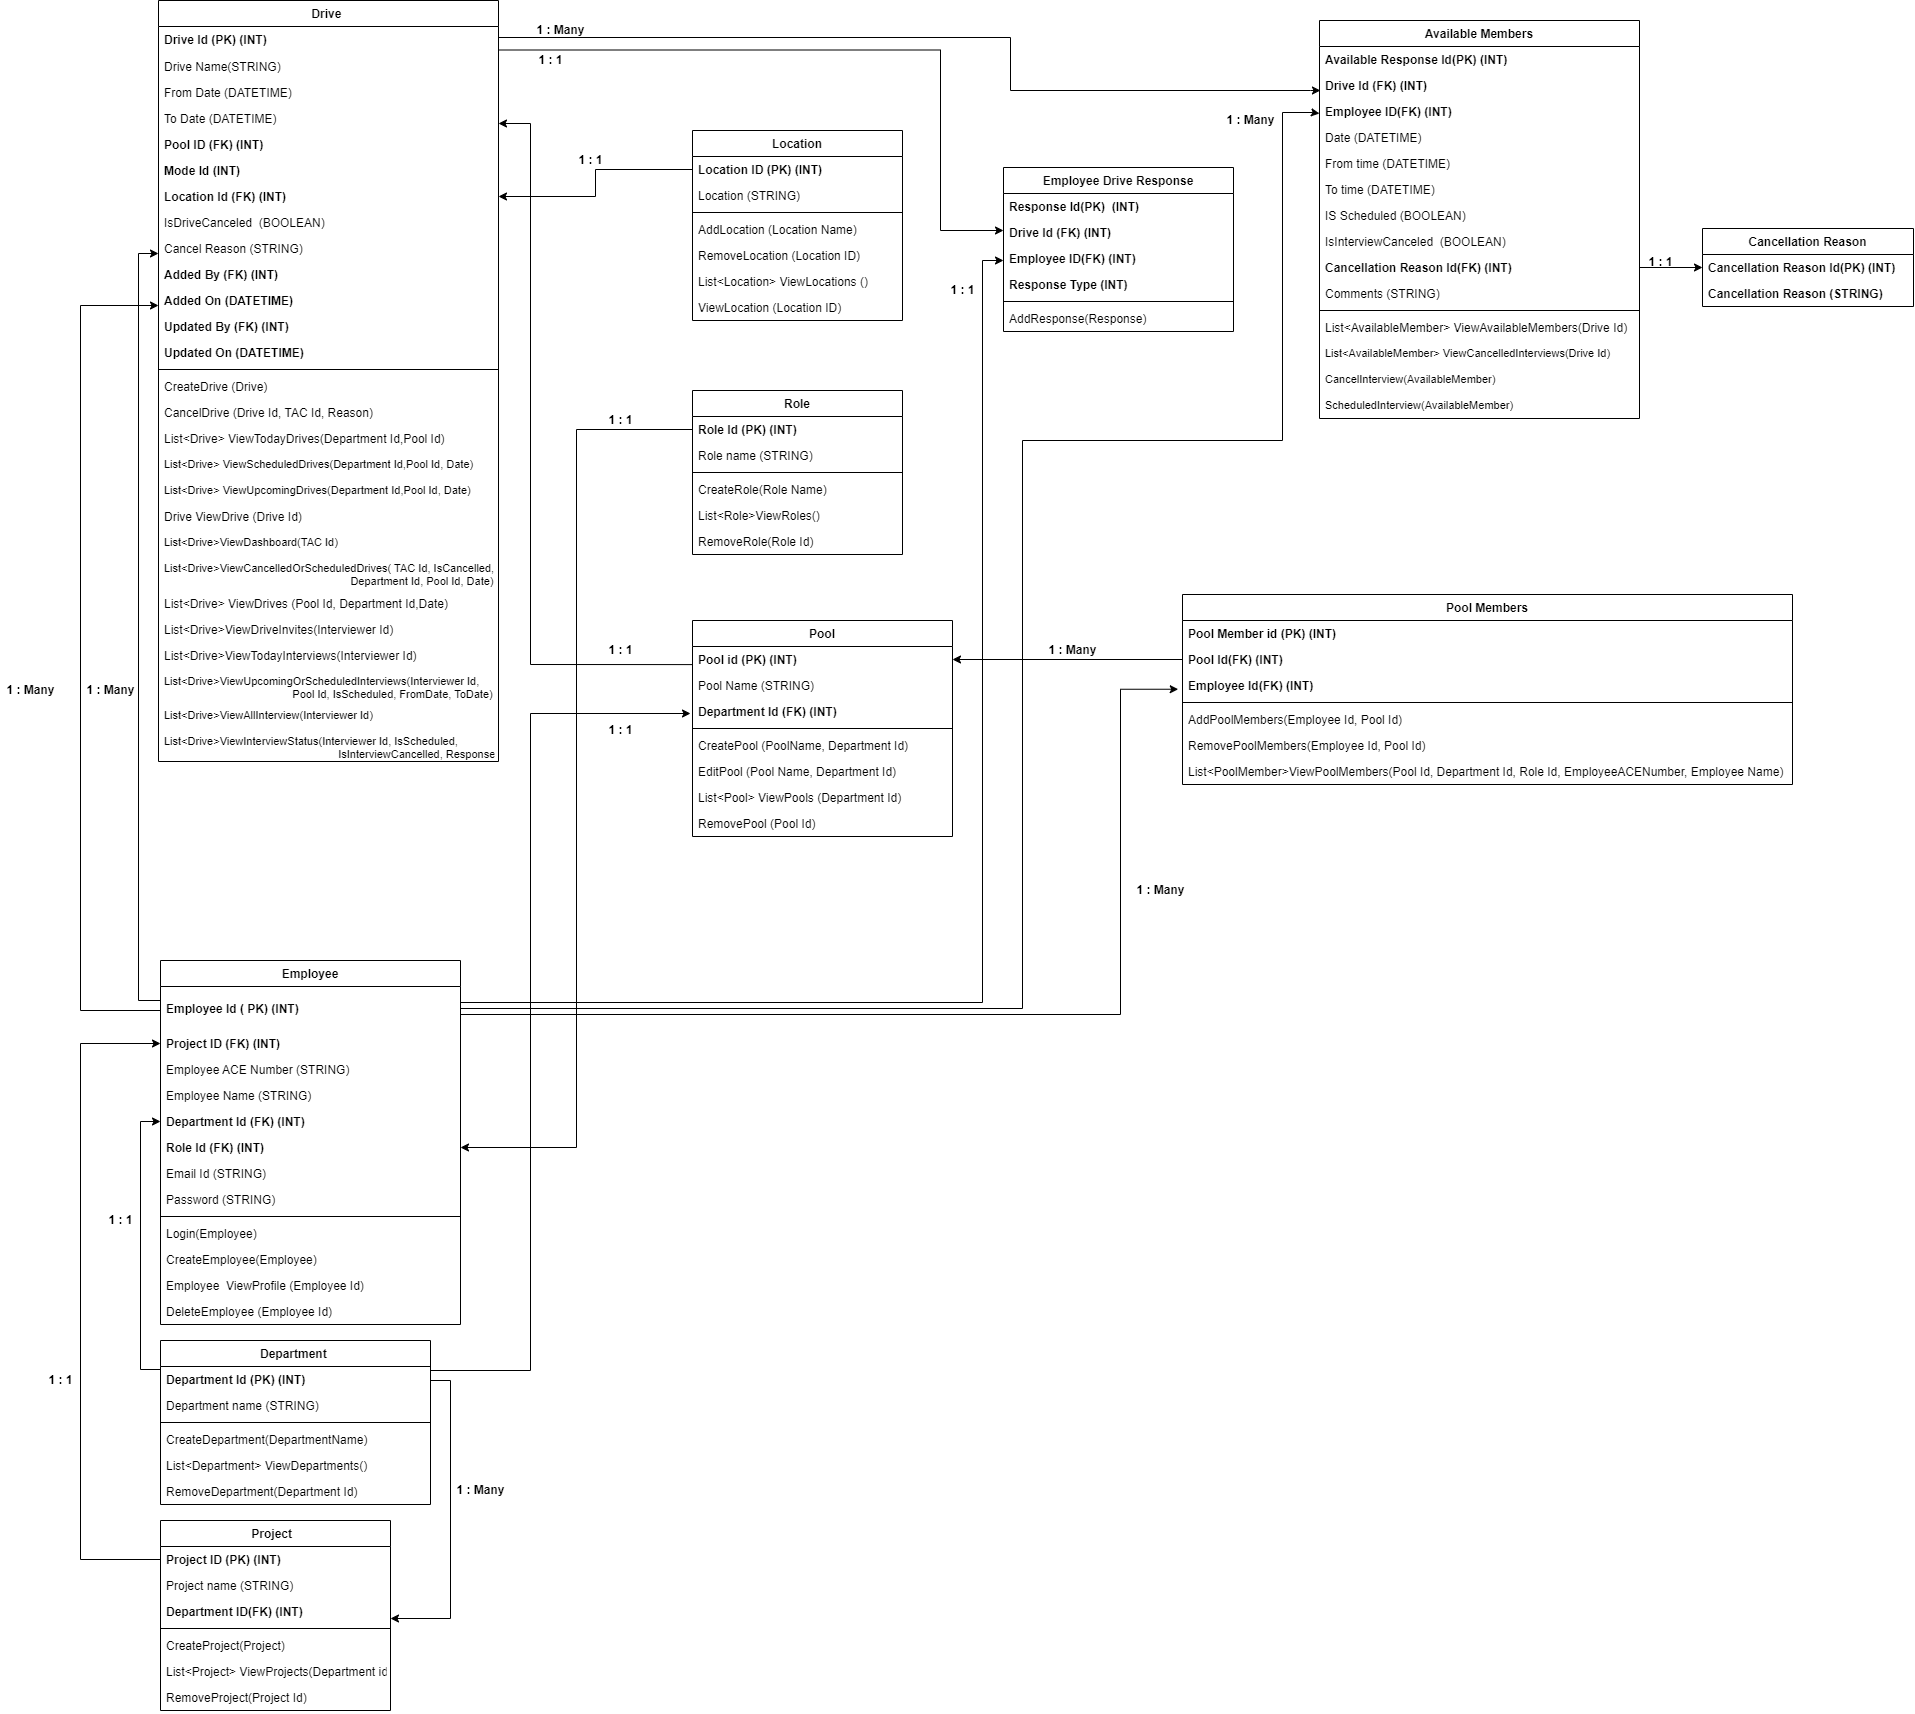
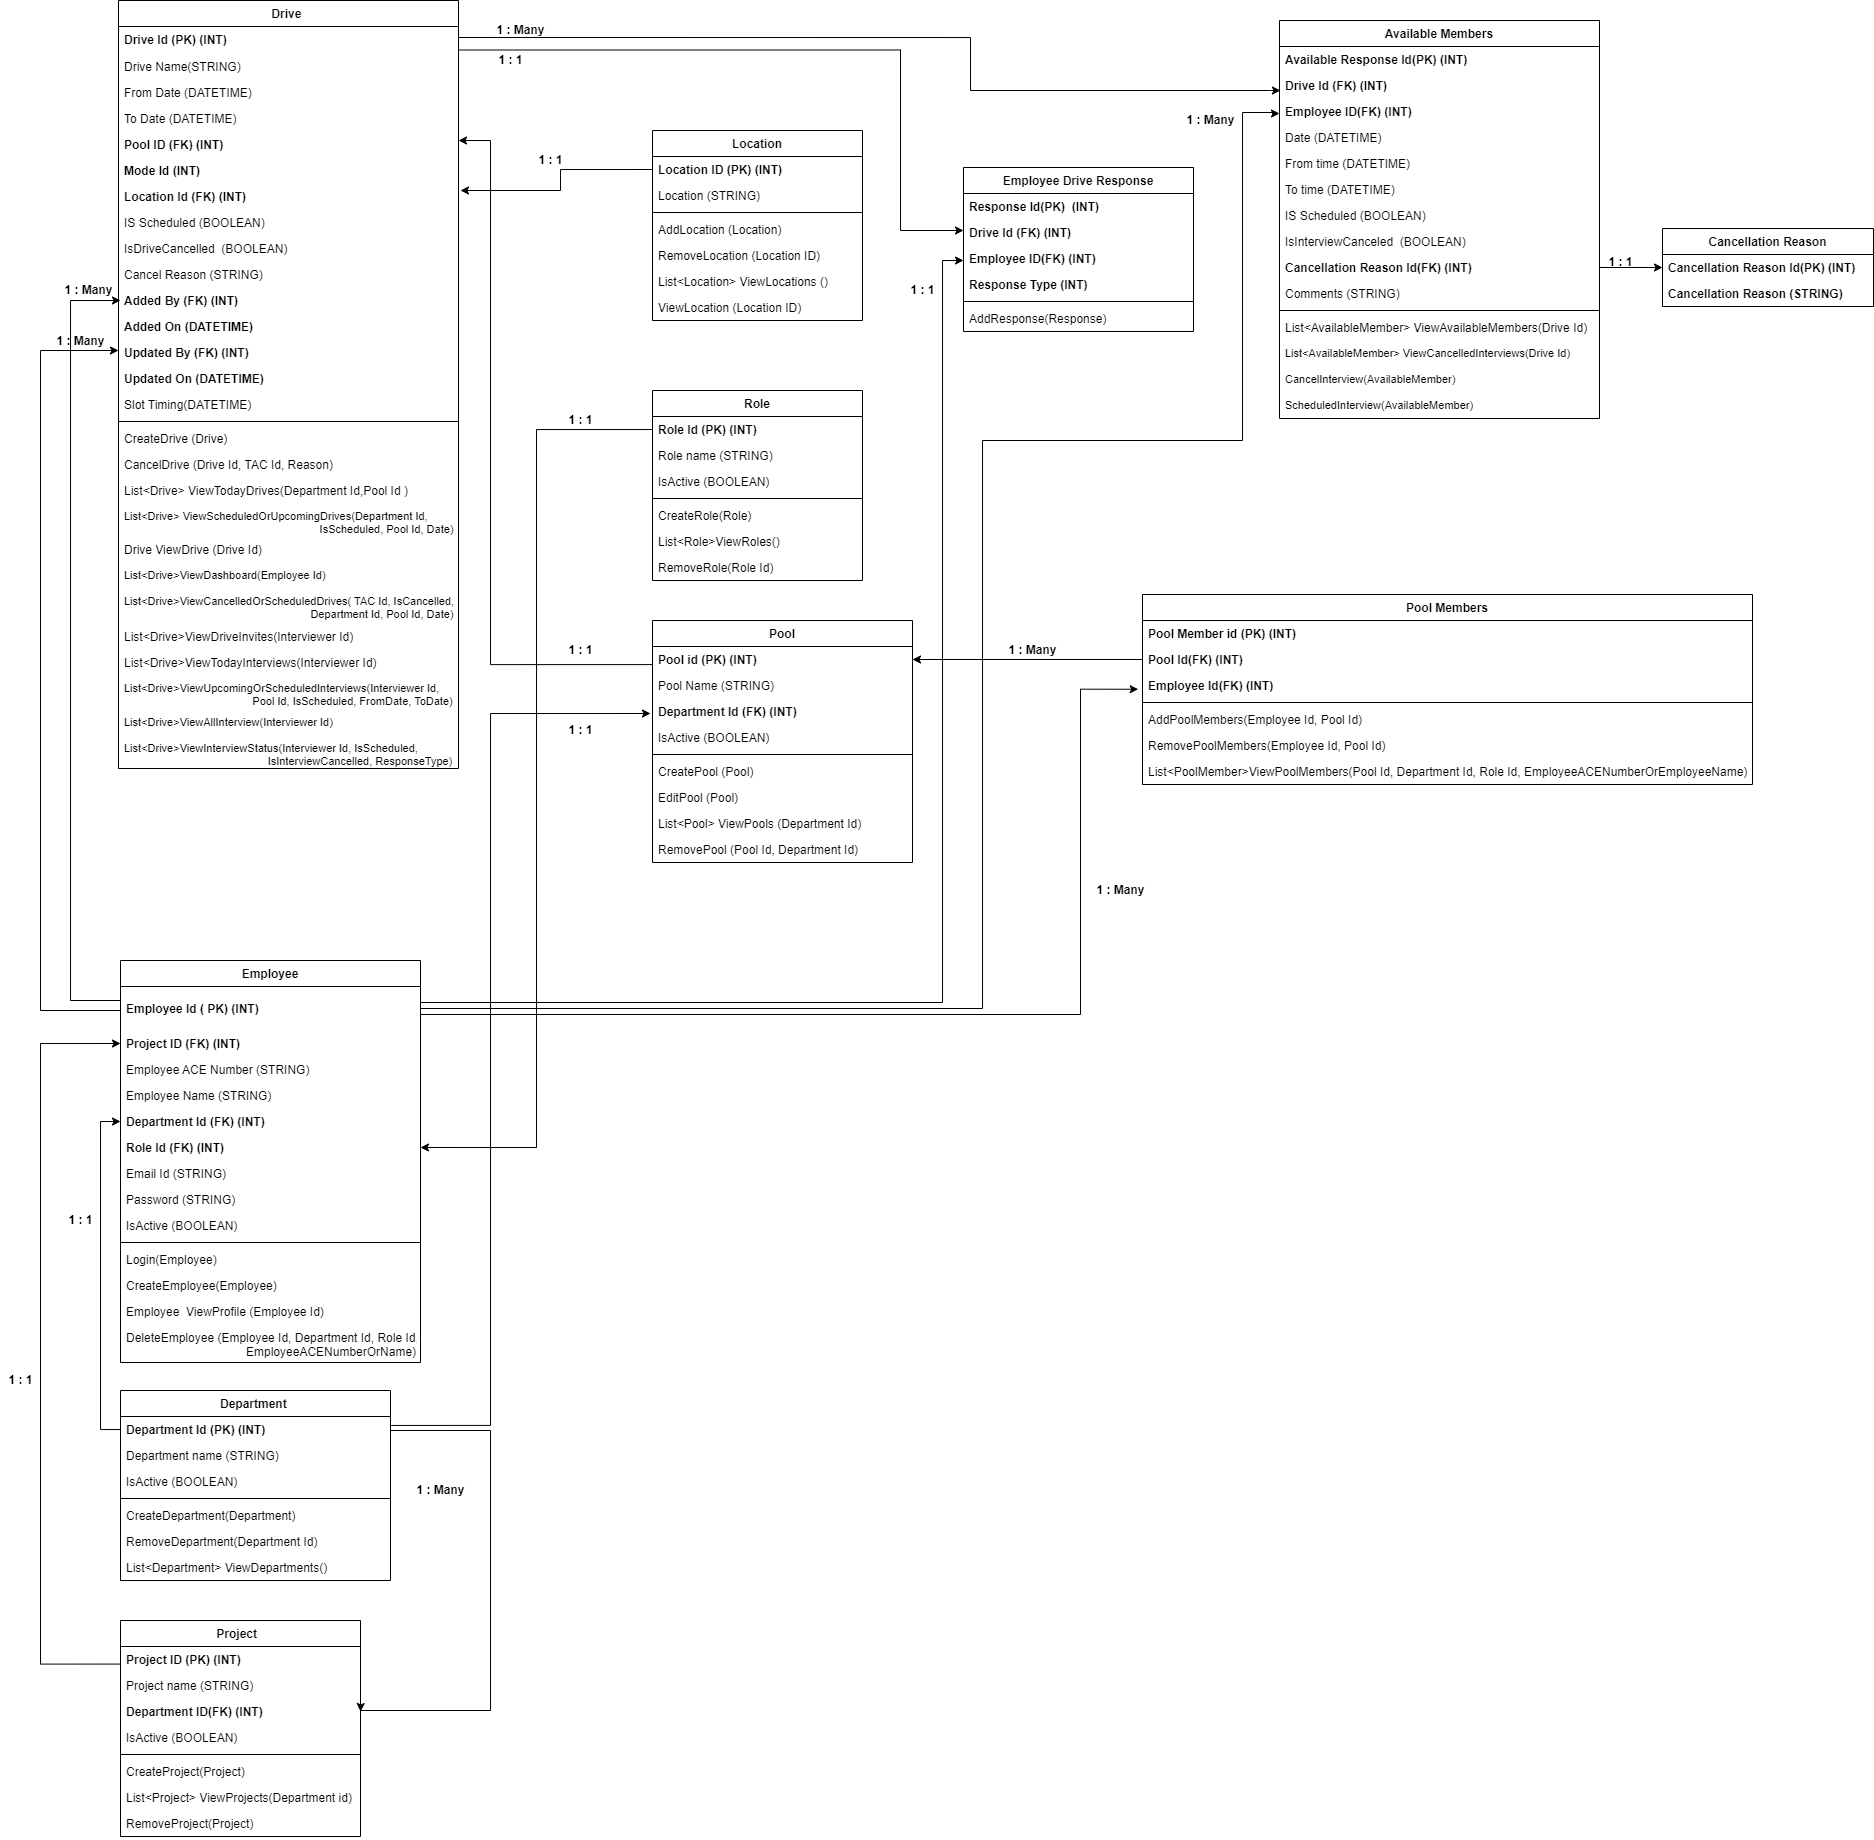
Updated Logical diagram

diff --git a/Services/DepartmentServices.cs b/Services/DepartmentServices.cs
@@ -8,5 +8,9 @@ public class DepartmentServices{
     public void CreateDepartment(Department department);
     public List<Department> ViewDepartment();
     public void RemoveDepartment(int departmentId);
+
+    public void CreateProject(Project project);
+    public void RemoveProject(int projectId);
+    public List<Project> ViewProjects(int departmentId);
     
 }
